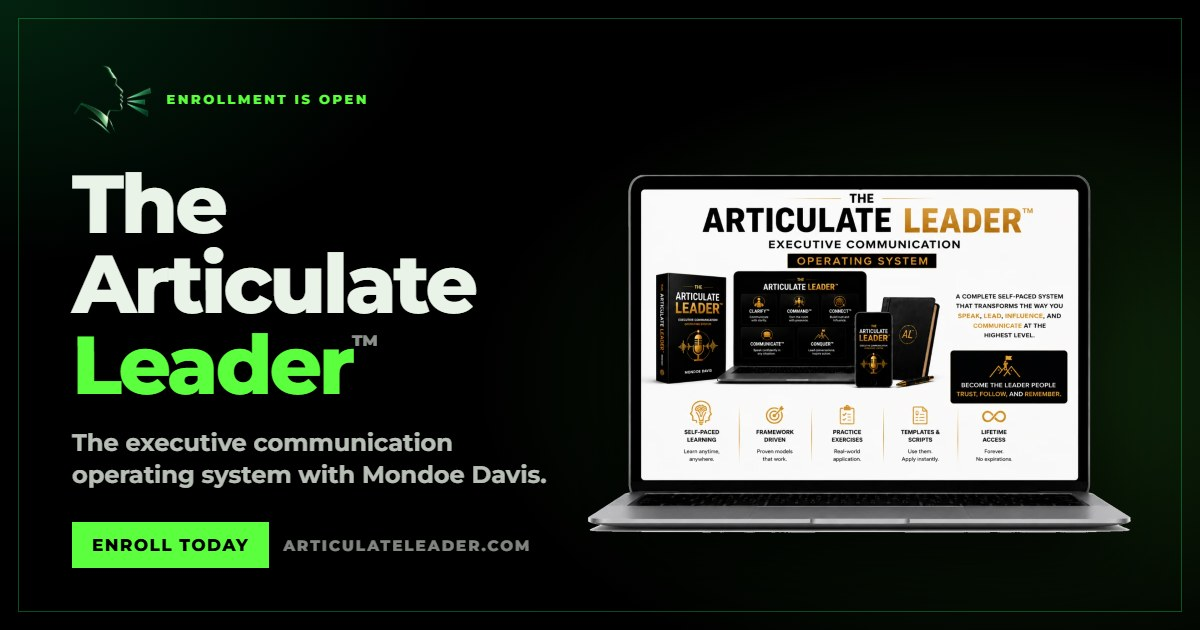
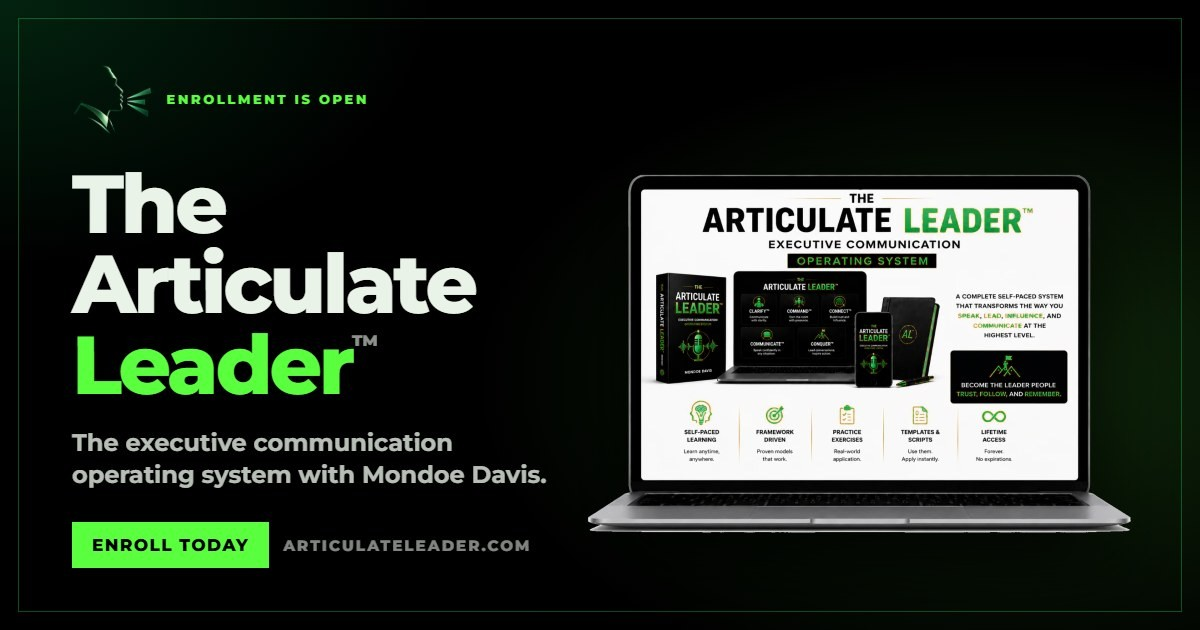
Swap the laptop photo for the flex shot and turn the course art green
From the Oct 27 launch meeting: Sr. asked for the laptop photo to be
replaced with a real, unmirrored photo, and for the course package art
to be green everywhere, not gold on some pages.

- index + enroll: mentor photo is now mentor-flex.jpg (action-shot
  cropped to drop the dead space and the softbox), 4:3 frame
- enroll: course and bonus mockups recoloured green; og-enroll share
  card matches
- No checkout links or prices touched

diff --git a/enroll.html b/enroll.html
@@ -232,9 +232,9 @@ main{ position:relative; z-index:3; }
 .blist li b{ font-weight:800; font-size:11px; letter-spacing:.1em; color:var(--green); flex-shrink:0; width:22px; }
 
 /* ── TAUGHT BY ─────────────────────────────────────────────── */
-.taught-grid{ display:grid; grid-template-columns:minmax(0,300px) 1fr; gap:clamp(26px,5vw,56px); align-items:center; max-width:960px; margin:0 auto; }
-.taught-photo{ position:relative; border:1px solid rgba(92,255,61,.45); box-shadow:var(--shadow); overflow:hidden; aspect-ratio:4/5; }
-.taught-photo img{ width:100%; height:100%; object-fit:cover; object-position:50% 20%; filter:grayscale(.35) contrast(1.04) brightness(.96); }
+.taught-grid{ display:grid; grid-template-columns:minmax(0,420px) 1fr; gap:clamp(26px,5vw,56px); align-items:center; max-width:960px; margin:0 auto; }
+.taught-photo{ position:relative; border:1px solid rgba(92,255,61,.45); box-shadow:var(--shadow); overflow:hidden; aspect-ratio:4/3; }
+.taught-photo img{ width:100%; height:100%; object-fit:cover; object-position:50% 30%; filter:grayscale(.35) contrast(1.04) brightness(.96); }
 .taught-photo::before{ content:''; position:absolute; inset:0; z-index:1; background:linear-gradient(to top,rgba(0,0,0,.6),transparent 45%); }
 .taught-photo::after{ content:''; position:absolute; inset:0; z-index:2; background:var(--green-deep); mix-blend-mode:multiply; opacity:.22; }
 .taught-body h2{ font-size:clamp(32px,5vw,58px); line-height:1; margin-top:12px; }
@@ -367,7 +367,7 @@ footer{ background:#000; padding:44px var(--pad-x); border-top:1px solid var(--l
   .bonus-grid{ grid-template-columns:1fr; }
   .bonus-media{ max-width:620px; margin:0 auto; width:100%; }
   .taught-grid{ grid-template-columns:1fr; text-align:center; }
-  .taught-photo{ max-width:300px; margin:0 auto; width:100%; }
+  .taught-photo{ max-width:520px; margin:0 auto; width:100%; }
   .taught-body p{ margin-left:auto; margin-right:auto; }
   .taught-body .verse{ text-align:left; margin-left:auto; margin-right:auto; }
 }
@@ -422,7 +422,7 @@ footer{ background:#000; padding:44px var(--pad-x); border-top:1px solid var(--l
     </div>
     <div class="ehero-media">
       <div class="halo" aria-hidden="true"></div>
-      <img src="images/course-mockup.webp" width="1200" height="770" alt="The Articulate Leader course on laptop, phone, and workbook">
+      <img src="images/course-mockup-green.webp" width="1200" height="770" alt="The Articulate Leader course on laptop, phone, and workbook">
     </div>
     <div class="ehero-plans">
       <div class="plans">
@@ -473,7 +473,7 @@ footer{ background:#000; padding:44px var(--pad-x); border-top:1px solid var(--l
 <section class="sec">
   <div class="wrap bonus-grid">
     <div class="bonus-media rv">
-      <img src="images/bonus-mockup.webp" width="1200" height="770" alt="The Articulate Leader bonus offers" loading="lazy">
+      <img src="images/bonus-mockup-green.webp" width="1200" height="770" alt="The Articulate Leader bonus offers" loading="lazy">
     </div>
     <div class="bonus-copy">
       <span class="eyebrow rv">Included With Enrollment</span>
@@ -498,7 +498,7 @@ footer{ background:#000; padding:44px var(--pad-x); border-top:1px solid var(--l
 <section class="sec light">
   <div class="taught-grid">
     <div class="taught-photo rv">
-      <img src="images/about-shot.jpg" alt="Mondoe Davis" loading="lazy" onerror="this.onerror=null;this.src='https://placehold.co/600x750/0E1B0E/5CFF3D?text=Mondoe+Davis'">
+      <img src="images/mentor-flex.jpg" width="1039" height="743" alt="Mondoe Davis" loading="lazy" onerror="this.onerror=null;this.src='https://placehold.co/1039x743/0E1B0E/5CFF3D?text=Mondoe+Davis'">
     </div>
     <div class="taught-body rv d1">
       <span class="eyebrow">Taught By</span>

diff --git a/index.html b/index.html
@@ -260,8 +260,8 @@ main{ position:relative; z-index:3; }
 /* ── MENTOR ────────────────────────────────────────────────── */
 .mentor{ overflow:hidden; }
 .mentor-grid{ display:grid; grid-template-columns:.88fr 1.12fr; gap:clamp(28px,5vw,58px); align-items:center; text-align:left; }
-.mentor-photo{ position:relative; border:1px solid rgba(92,255,61,.45); box-shadow:var(--shadow); overflow:hidden; aspect-ratio:5/6; }
-.mentor-photo img{ width:100%; height:100%; object-fit:cover; object-position:50% 20%; filter:grayscale(.35) contrast(1.04) brightness(.96); }
+.mentor-photo{ position:relative; border:1px solid rgba(92,255,61,.45); box-shadow:var(--shadow); overflow:hidden; aspect-ratio:4/3; }
+.mentor-photo img{ width:100%; height:100%; object-fit:cover; object-position:50% 30%; filter:grayscale(.35) contrast(1.04) brightness(.96); }
 .mentor-photo::after{ content:''; position:absolute; inset:0; background:linear-gradient(160deg,rgba(92,255,61,.09),transparent 40%,rgba(0,0,0,.5)); }
 .mentor-body .eyebrow{ margin-bottom:12px; }
 .mentor-body h2{ font-size:clamp(34px,6vw,70px); line-height:1; }
@@ -393,7 +393,7 @@ footer{ background:#000; padding:44px var(--pad-x); border-top:1px solid var(--l
   .discover-grid{ grid-template-columns:1fr; gap:32px; }
   .stage{ order:-1; }
   .mentor-grid{ grid-template-columns:1fr; gap:24px; }
-  .mentor-photo{ max-width:360px; margin:0 auto; width:100%; }
+  .mentor-photo{ max-width:520px; margin:0 auto; width:100%; }
   .foryou-grid{ grid-template-columns:1fr; gap:18px; }
   .clip{ width:120px; margin:0 auto; }
 }
@@ -549,7 +549,7 @@ footer{ background:#000; padding:44px var(--pad-x); border-top:1px solid var(--l
   <div class="wrap">
     <div class="mentor-grid">
       <div class="mentor-photo rv">
-        <img src="images/about-shot.jpg" alt="Mondoe Davis" onerror="this.onerror=null;this.src='https://placehold.co/620x744/0E1B0E/5CFF3D?text=Mondoe+Davis'">
+        <img src="images/mentor-flex.jpg" width="1039" height="743" alt="Mondoe Davis" onerror="this.onerror=null;this.src='https://placehold.co/1039x743/0E1B0E/5CFF3D?text=Mondoe+Davis'">
       </div>
       <div class="mentor-body rv d1">
         <span class="eyebrow">Meet Your Instructor</span>
